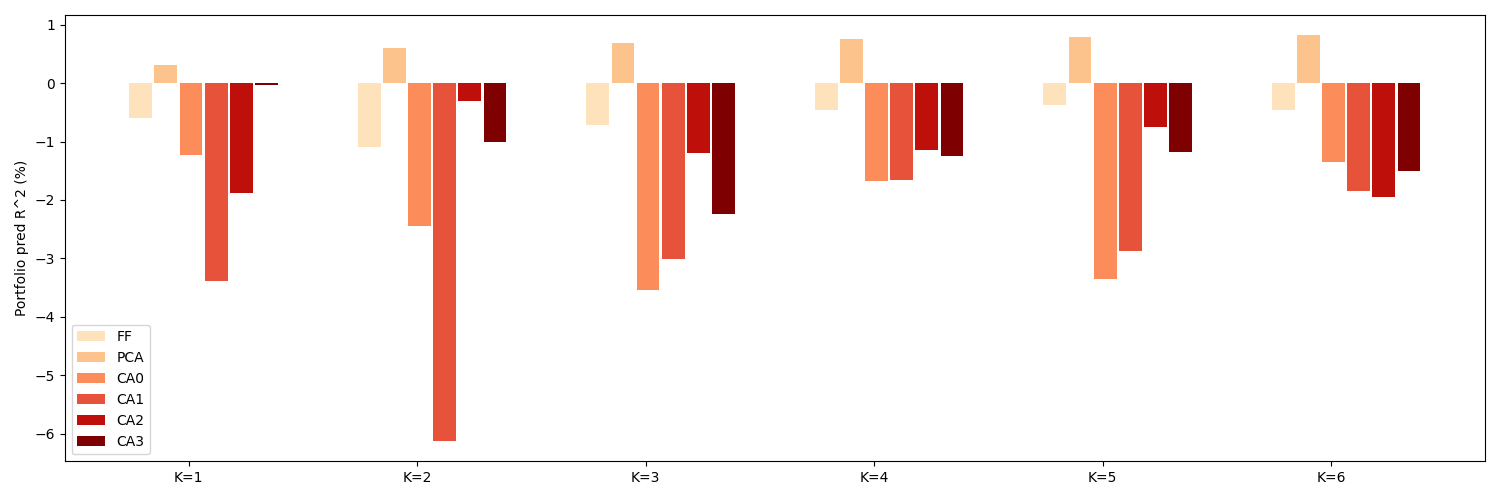
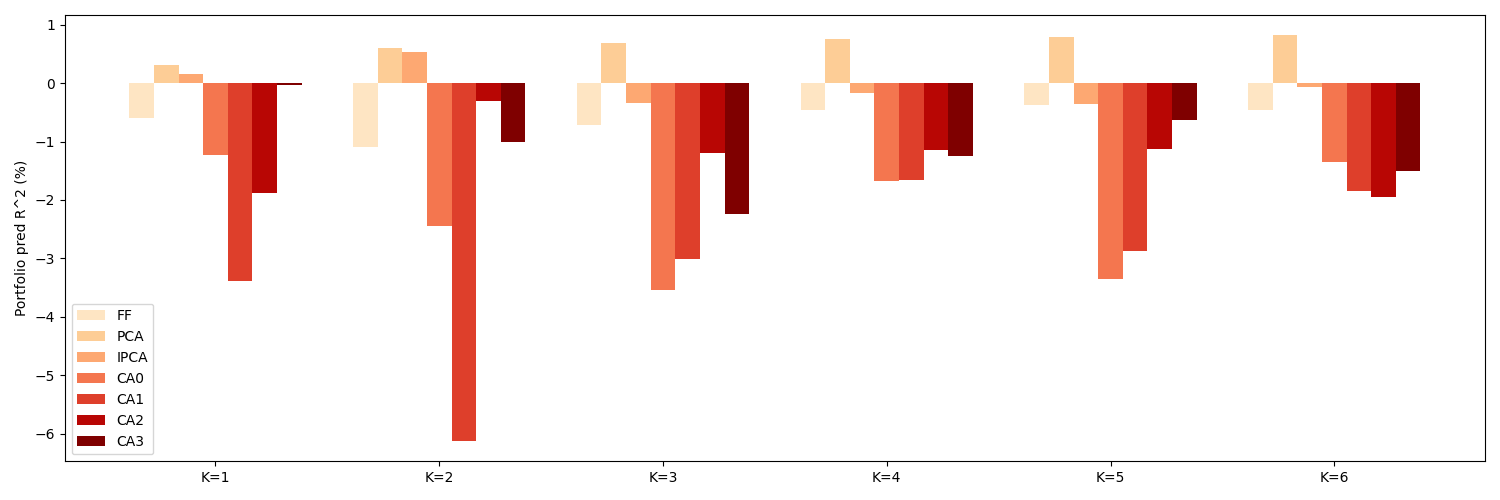
R2 analysis done

diff --git a/analysis.py b/analysis.py
@@ -122,10 +122,10 @@ if __name__=="__main__":
         total_R2.append(calculate_R2(m, 'inference'))
     R_total = pd.DataFrame([models, total_R2]).T
 
-    # predict_R2 = []
-    # for m in models:
-    #     predict_R2.append(calculate_R2(m, 'predict'))
-    # R_pred = pd.DataFrame([models, predict_R2]).T
+    predict_R2 = []
+    for m in models:
+        predict_R2.append(calculate_R2(m, 'predict'))
+    R_pred = pd.DataFrame([models, predict_R2]).T
     
     plot_R2_bar(R_total, 'total')
-    # plot_R2_bar(R_pred, 'pred')
+    plot_R2_bar(R_pred, 'pred')
